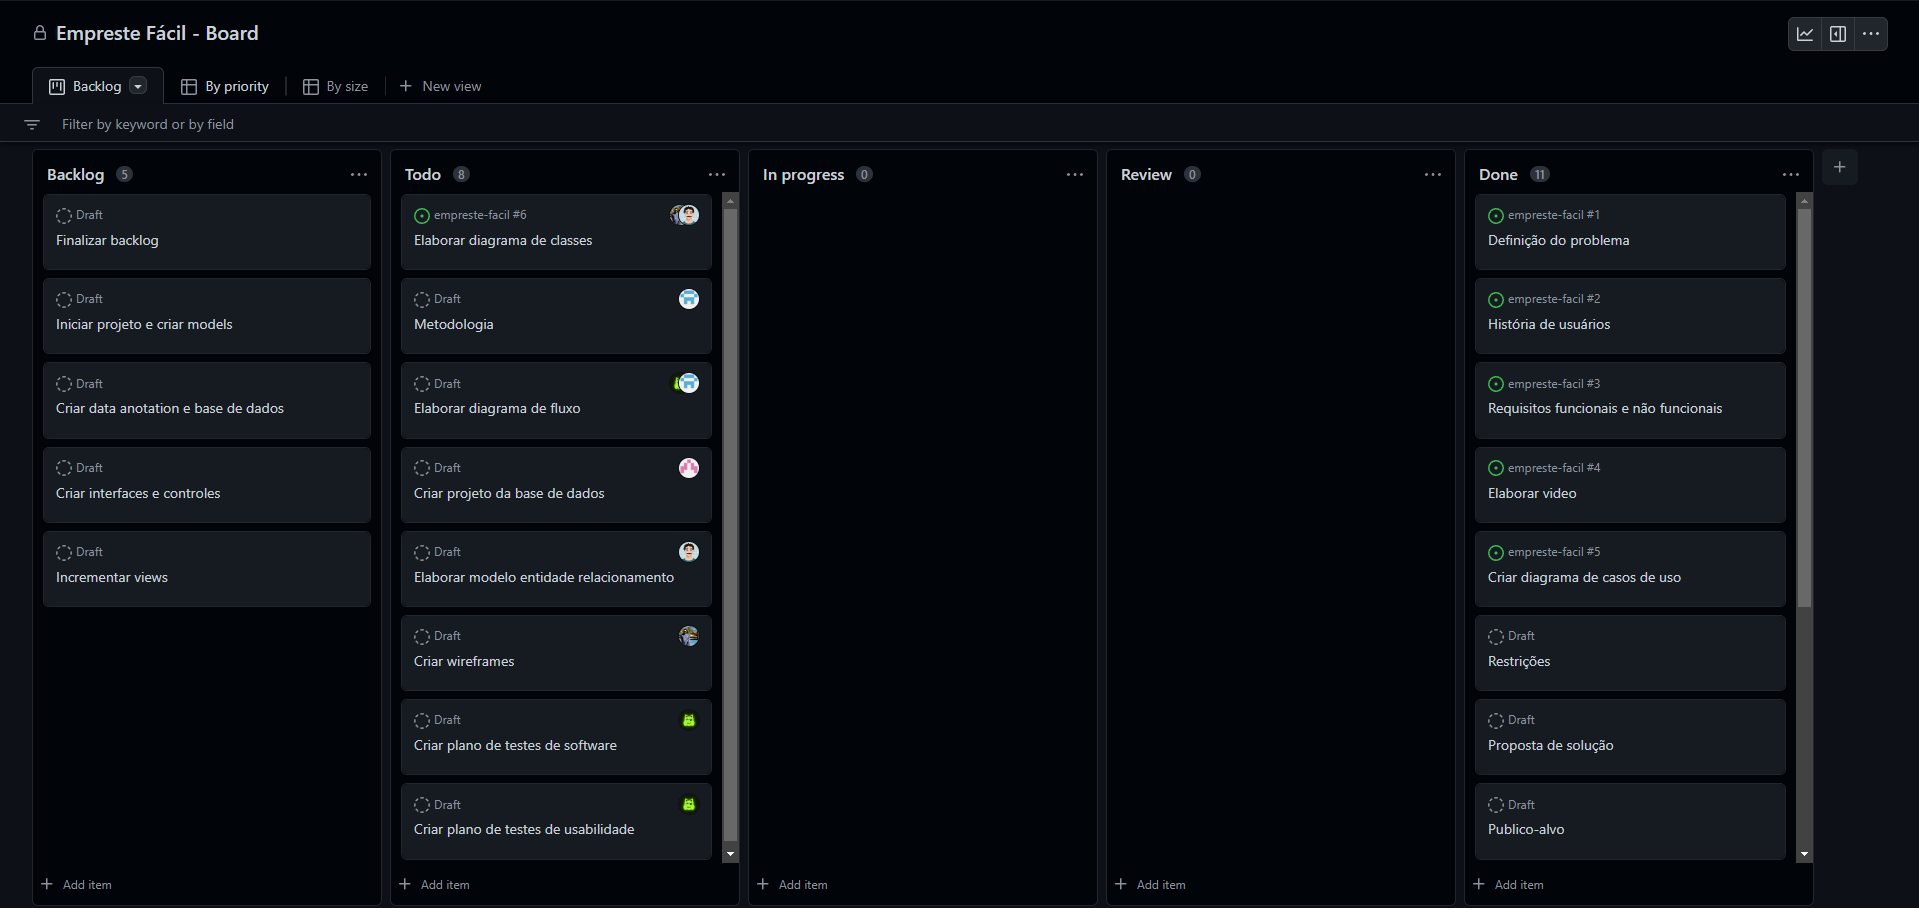
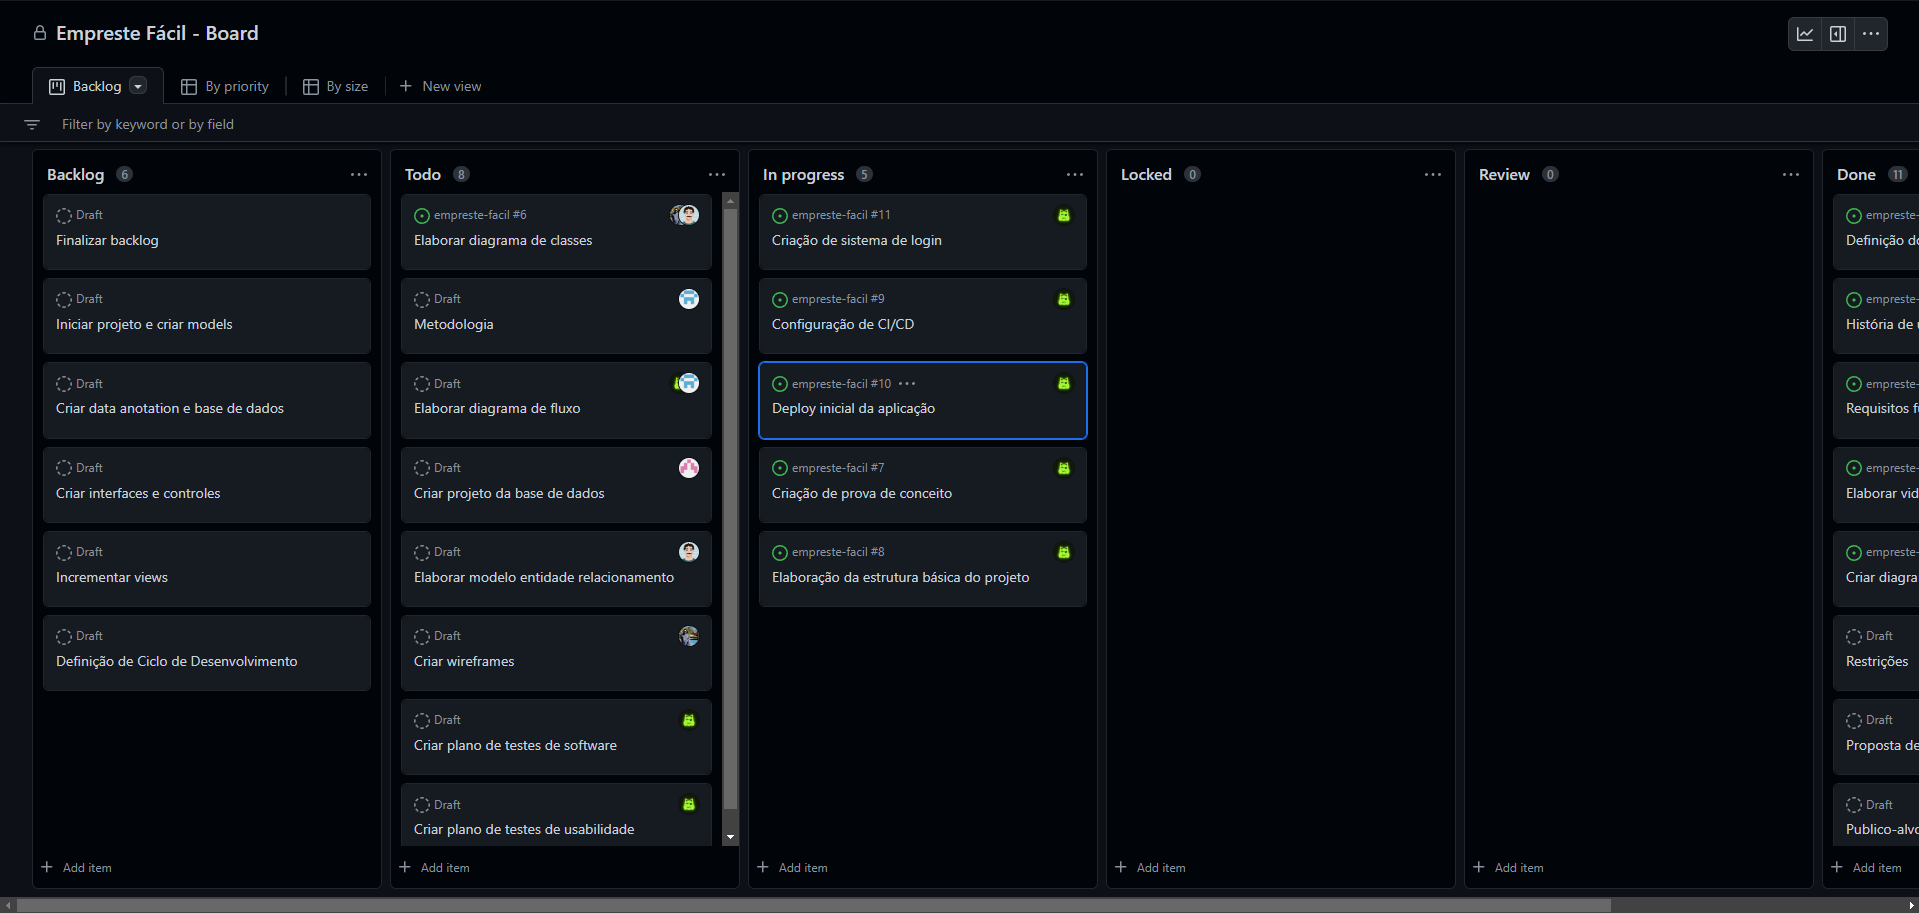
chore: updated methodology and board image

diff --git a/docs/03-Metodologia.md b/docs/03-Metodologia.md
@@ -45,9 +45,10 @@ A metodologia *scrum* foi conjugada com o método *kanban* de forma a tornar vis
 * *Backlog*: contém as tarefas identificadas e necessárias para a criação do produto;
 * *To do*: contém as tarefas que serão incluídas na *sprint*;
 * *In progress*: contém as tarefas que foram iniciadas e estão em desenvolvimento;
+* *Locked*: nesta coluna são colocadas tarefas que foram paralisadas em razão de algum motivo impeditivo que precisa de solução.
+* *Review*: contém as tarefas que necessitam ser revisadas, seja a nivel de código ou reformulação da mesma.
 * *Test*: contém as tarefas que foram concluídas e serão checadas, de forma a se controlar a qualidade do desenvolvimento;
 * *Done*: contém as tarefas que foram concluídas e testadas;
-* *Locked*: nesta coluna são colocadas tarefas que foram paralisadas em razão de algum motivo impeditivo que precisa de solução.
 
 ### Processo
 A figura abaixo ilustra a utilização do *kanboard*:
